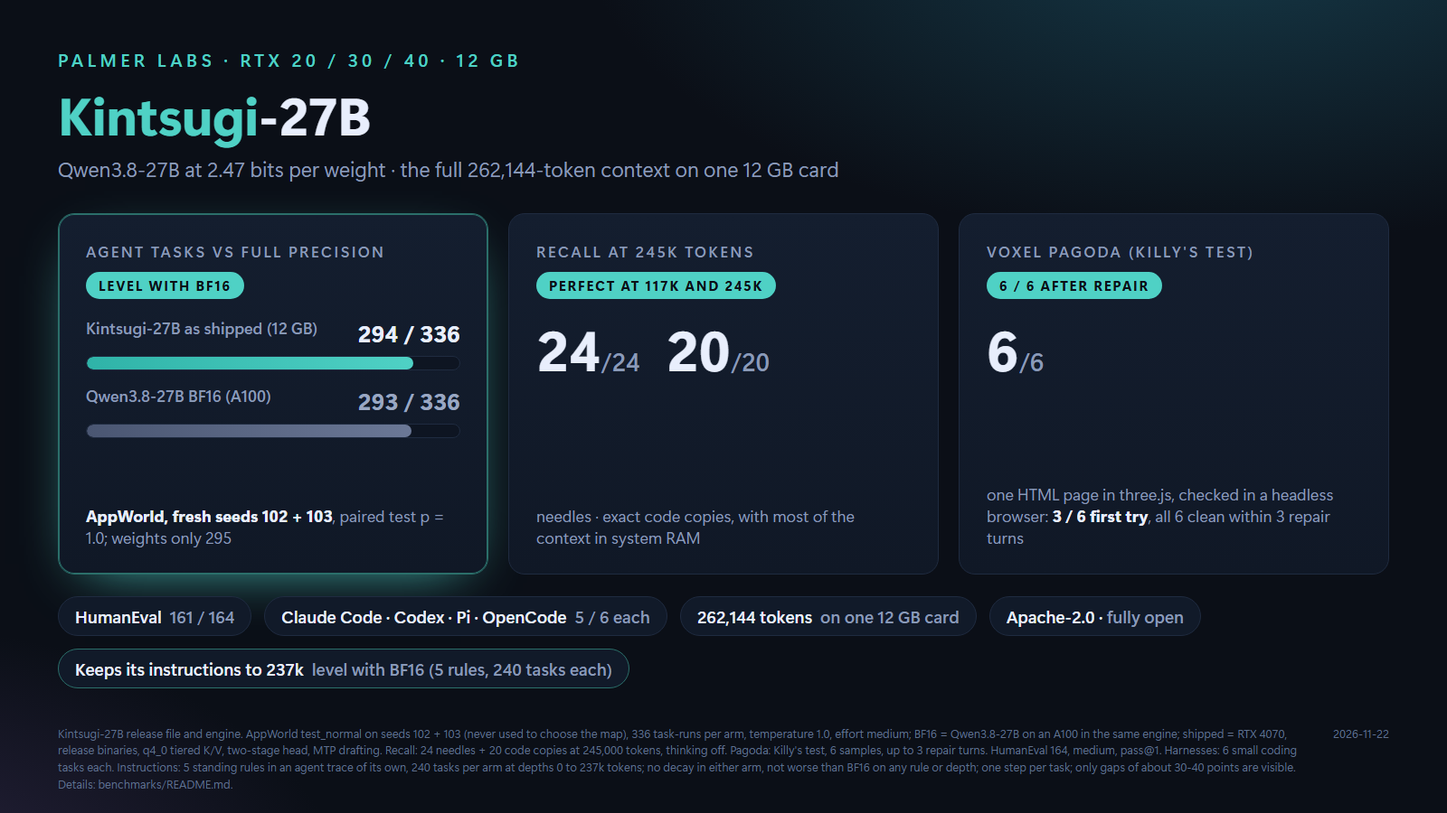
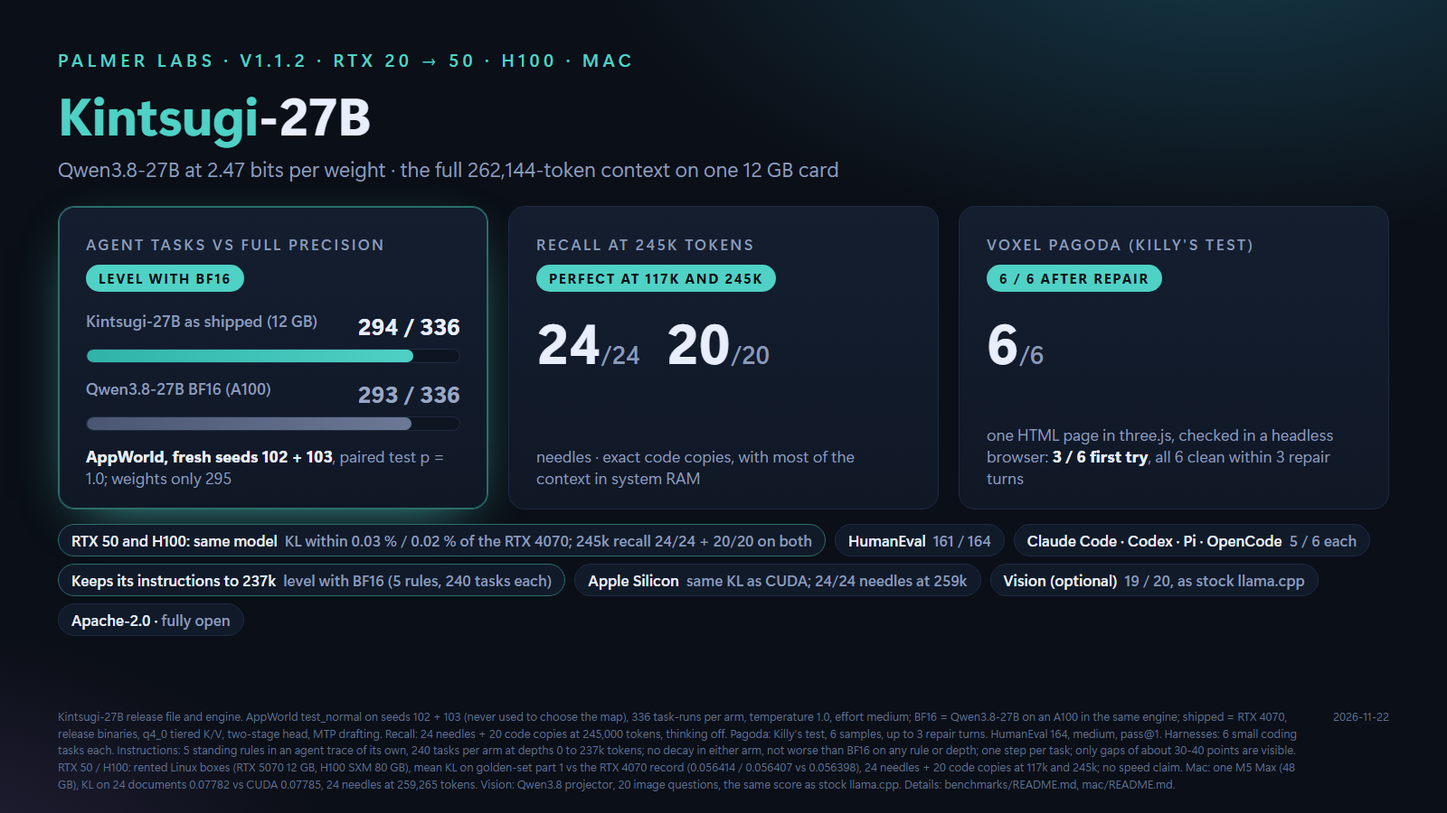
v1.1.2: RTX 50 (Blackwell) and H100 / H200 (Hopper) in one bundle, portable code for newer cards, launcher card check, optional images (vision projector), Linux web page, grammar fix from llama.cpp #32381; docs, changelog, cross-architecture results, highlights card

diff --git a/bundle/README.md b/bundle/README.md
@@ -1,4 +1,4 @@
-# Kintsugi-27B bundle: user guide (Windows, RTX 20 / 30 / 40, 12 GB)
+# Kintsugi-27B bundle: user guide (Windows, RTX 20 / 30 / 40 / 50 and H100, 12 GB)
 
 This folder holds the text files of the Windows zip. Download the zip from
 [Releases](https://github.com/professorpalmer/Kintsugi-27B/releases/latest). The zip also holds the engine (`bin\`),
@@ -11,12 +11,15 @@ end). Pull requests are welcome.
 
 ## What you need
 
-- An NVIDIA RTX 20, 30 or 40 series card with 12 GB of VRAM or more. Examples: RTX 2060 12 GB, 3060 12 GB, 3080 12 GB,
-  3080 Ti, 3090, 4060 Ti 16 GB, 4070 and up, 4090.
-  - RTX 50 series (Blackwell) and H100 (Hopper) are not in this build yet: coming soon.
+- An NVIDIA RTX 20, 30, 40 or 50 series card with 12 GB of VRAM or more, or an H100 / H200. Examples: RTX 2060 12 GB,
+  3060 12 GB, 3080 12 GB, 3080 Ti, 3090, 4060 Ti 16 GB, 4070 and up, 4090, 5060 Ti 16 GB, 5070 and up, 5090.
+  - The bundle carries code for all of them (RTX 50 and H100 from v1.1.2). CUDA loads only your card's code, so this
+    costs no VRAM or speed, only download size.
+  - Older cards (GTX 10 and before) and V100 / A100 have no code in the bundle: the launcher says so and stops.
   - Cards with less than 12 GB cannot hold the model.
   - On 16-24 GB cards, the launcher keeps the whole context in VRAM, so long-context speed is much higher.
-  - We checked Turing (RTX 20 class, on a card limited to 12 GB), Ampere and Ada: the results are the same within 1 %.
+  - We checked Turing (RTX 20 class, on a card limited to 12 GB), Ampere, Ada, Blackwell (RTX 5070) and Hopper (H100):
+    the results are the same within 1 % ([cross-architecture](../research/cross-architecture/README.md)).
 - NVIDIA driver 580 or newer (the bundle carries its own CUDA 13 runtime). The launcher stops with a message if the
   driver is too old.
 - Windows 10 or 11, 64-bit. 32 GB of system RAM or more is best for very long chats.
@@ -48,6 +51,29 @@ Without the file the launcher uses the model's own MTP drafter, as before, and p
 with either drafter. To choose by hand: `$env:KINTSUGI_DRAFT = 'mtp'` (or `dflash`, `off`).
 
 The drafter is Inco AI's DFlash2 in ggml-org's Q4_0 GGUF, unchanged (Apache-2.0; see NOTICE and CREDITS.md).
+
+## Images (optional download)
+
+Kintsugi-27B can read images with Qwen's vision projector. It is an optional download; the model file does not
+change. Download `mmproj-Qwen3.8-27B-Q8_0.gguf` (629,247,008 bytes, SHA-256
[1 lines of base64/hex data omitted]
+https://huggingface.co/ggml-org/Qwen3.8-27B-GGUF and put it in `models\`. The launcher then turns images on (the
+`vision` line). Two modes (`KINTSUGI_VISION`; the default `auto` picks by the card):
+
+- **cpu** (auto on cards under 16 GB): the projector runs on the processor. No VRAM cost: every K/V cell stays in
+  VRAM. An image takes 5-25 s to read (about 5 s for a small screenshot, 25 s for a 2,048-token photo).
+- **gpu** (auto on cards with 16 GB or more): about 1.3 GB of VRAM. An image takes 1-3 s. On a 12 GB card this
+  leaves about 61,000 K/V cells in VRAM instead of 144,000 (the window stays 262,144 tokens; long conversations
+  decode more slowly); a 16 GB card keeps the whole window in VRAM.
+- `KINTSUGI_VISION=off`: images off with the file present; `gpu` / `cpu` force a mode.
+- With images on, drafting is MTP + lookup: the DFlash2 drafter does not work with images yet (the launcher
+  switches to MTP; `KINTSUGI_DRAFT=dflash` with images on stops with a message).
+- Saved conversations: a request with an image is not saved; with images on, saves are full saves (no small delta
+  saves).
+- `KINTSUGI_IMAGE_MAX_TOKENS` (default 2048): a larger image is scaled down to this many tokens.
+
+Images work in chat requests (OpenAI and Anthropic formats) and in tool results (for example a screenshot). The
+built-in web page is not tested with images.
 
 ## How to chat
 
@@ -116,7 +142,11 @@ How the answers felt (long-document answers, chat after a restart, code, tools):
 - Very long reasoning answers can be less faithful than short ones. If an answer goes off track, ask again or ask for a
   shorter answer.
 - One chat at a time (one slot). By default, the server listens on 127.0.0.1 only.
-- RTX 50 series (Blackwell) and H100 (Hopper) are not built in this release yet: coming soon.
+- RTX 50 and H100 were tested on rented Linux machines; the Windows build of that code (CUDA 13.4) passed the same
+  fidelity check on the RTX 5070 under Linux. We have not run it on an RTX 50 under Windows ourselves.
+- Newer cards (for example B200, or compute capability 12.1) run the engine's portable code: the driver compiles it at
+  the first start (about 1.5 minutes in our test on an RTX 5070 run on that code; later starts about 10 s, from the driver's cache). We have not tested these cards.
+  On Windows this needs a driver that supports CUDA 13.4.
 - On RTX 20 (Turing) cards, drafting (MTP or DFlash2) is not bit-identical to one-token decoding: near ties can round
   the other way in the verify path. The fidelity is the same (our Turing KL check). On RTX 30 / 40 it is bit-identical.
 

diff --git a/research/cross-architecture/README.md b/research/cross-architecture/README.md
@@ -1,6 +1,6 @@
-# Cross-architecture checks: Turing and Ampere against the Ada rig
+# Cross-architecture checks: Turing, Ampere, Blackwell and Hopper against the Ada rig
 
-**Status:** finished (2026-11-20). **Finding:** on Turing (sm_75) and Ampere (sm_86) the engine computes the same
+**Status:** finished (2026-11-20; Blackwell and Hopper added 2026-11-22). **Finding:** on Turing (sm_75) and Ampere (sm_86) the engine computes the same
 model as on our Ada rig: mean KL within +0.02 % and +0.92 %, and full retrieval at 117k. The output is not
 token-identical, and that is rounding, not wrong math.
 
@@ -92,4 +92,50 @@ within 1 %. So KL is the test that decides across architectures; identity stays 
   the same.
 - We found no rentable RTX 2060 12 GB box with enough system RAM; the Turing result comes from a Quadro RTX 6000 held
   to 12 GB.
-- No RTX 50 (Blackwell) build in this study. Blackwell and Hopper support is coming soon, with its own checks.
+- No RTX 50 (Blackwell) build in v1 to v1.1.1; see the next section for v1.1.2.
+
+## v1.1.2: Blackwell (RTX 50) and Hopper (H100), 2026-11-22
+
+**Finding:** the v1.1.2 engine computes the same model on an RTX 5070 (sm_120) and an H100 (sm_90) as on our RTX 4070:
+mean KL within +0.03 % and +0.02 %, and full retrieval at 117k and 245k.
+
+v1.1.2 adds native code for sm_90 and sm_120 (ggml's build turns `120` into the arch-specific `120a`) and portable
+`compute_90` PTX for newer cards. We rented one box for each, with the v1.1.2 Linux release engine built on the RTX 50
+box (CUDA 12.8, the same binaries on both boxes), the release model file from Hugging Face (sha256 checked) and the
+bundle launcher. Lines were written before the runs; they are the lines of the checks above.
+
+| Check | Line | Blackwell: RTX 5070 12 GB | Hopper: H100 SXM 80 GB |
+|---|---|---|---|
+| Mean KL, box against rig (0.056398) | +/-2 % | 0.056414: **+0.03 %** | 0.056407: **+0.02 %** |
+| Top-1 agreement (90.934 %) | 0.3 points | 90.928 %: -0.006 points | 90.921 %: -0.013 points |
+| Retrieval at 117k | 24/24 + 20/20 | 24/24 + 20/20 | 24/24 + 20/20 |
+| Retrieval at 245k | 24/24 + 20/20 | 24/24 + 20/20 | 24/24 + 20/20 |
+| Tool calls t1-t4 | pass | pass | pass |
+| Spill / out-of-memory / CUDA errors | 0 | 0 / 0 / 0 | 0 / 0 / 0 |
+| K/V cells in VRAM (262,144 window) | record | 129,536 (the driver keeps 453 MiB) | 262,144 (all) |
+| Same tokens with PDL on and off | 50/50 | 50/50 | 50/50 |
+| Identity against the rig | info | 22/50 | 20/50 |
+| **Verdict** | | **pass** | **pass** |
+
+- **PDL.** Code built for sm_90 and newer launches kernels with programmatic dependent launch (a kernel may start
+  before the previous one ends and waits inside for its inputs). Our build had never used it. We checked that every
+  such kernel our fork changes waits before it reads, and on both boxes the output is the same with PDL off
+  (`GGML_CUDA_PDL=0`). PDL is also faster: the identity set decodes at 103 vs 76 tok/s (RTX 5070) and 128 vs 87 tok/s
+  (H100) with PDL on vs off.
+- **Portable code (PTX).** With `CUDA_FORCE_PTX_JIT=1` the RTX 5070 runs the `compute_90` PTX instead of its own code,
+  as a B200 or a compute capability 12.1 card would. KL on a quarter of the set: 0.063993 vs 0.064009 with its own
+  code (-0.03 %), top-1 89.643 vs 89.632 %. The engine then chooses its kernels for 9.0, the arch of the code it runs
+  (one INFO line); before v1.1.2 the host side would have chosen for 12.0 while the device ran 9.0 code. On the H100,
+  forced JIT also forces cuBLAS to compile from PTX, which its CUDA 12.8 build cannot do for sm_90, so that run stops
+  at cuBLAS start; it says nothing about our code. With an engine built with the PTX only (no native code at all), the RTX 5070 compiles our code at the first
+  start (89 s to the first answer, 8 s with native code), and later starts take 10 s: the driver keeps the compiled code
+  in its cache (90 MiB). The output is the same in both starts (50/50), and decode speed matches the native code.
+- **The Windows build.** The Windows bundle's code comes from CUDA 13.4, the probed Linux build from 12.8. We built the
+  sm_120 code with the exact Windows compiler (CUDA 13.4.92) on the RTX 5070 box: KL on the quarter set 0.064003 vs
+  0.064009 (-0.01 %), top-1 89.643 vs 89.632 %.
+- **Hopper prompt reads** use the recurrent GDN kernel: the chunked GDN prefill (from llama.cpp #29353) is enabled only
+  on the architectures it was tuned for (RTX 30 / 40 / 50 and GB10). The result is the same model; reads are slower
+  than they could be.
+- No speed claims from rented boxes. For the record (one run, launcher defaults, MTP): RTX 5070 decode 78 tok/s at 4k and 64 tok/s at 117k,
+  prompt read 1,673 / 1,020 tok/s;
+  H100 decode 91 tok/s at 4k and 79 tok/s at 117k, prompt read 3,162 / 2,246 tok/s.

diff --git a/bundle-linux/README.md b/bundle-linux/README.md
@@ -1,4 +1,4 @@
-# Kintsugi-27B v1.1.1 for Linux (x86_64, RTX 20 / 30 / 40, 12 GB)
+# Kintsugi-27B v1.1.2 for Linux (x86_64, RTX 20 / 30 / 40 / 50 and H100, 12 GB)
 
 These are the text files of the Linux tarball; download the tarball from
 [Releases](https://github.com/professorpalmer/Kintsugi-27B/releases/latest). The tarball also holds the engine
@@ -12,7 +12,9 @@ https://github.com/professorpalmer/Kintsugi-27B/issues.
 
 ## What you need
 
-- An NVIDIA RTX 20, 30 or 40 series card with 12 GB of VRAM or more. RTX 50 (Blackwell) and H100 (Hopper) are not built in this release yet: coming soon.
+- An NVIDIA RTX 20, 30, 40 or 50 series card with 12 GB of VRAM or more, or an H100 / H200. CUDA loads only your
+  card's code, so the code for the other cards costs no VRAM or speed. Older cards (GTX 10 and before) and V100 / A100
+  have no code in the bundle: the launcher says so and stops.
 - NVIDIA driver 570 or newer. The engine uses the CUDA 12.8 runtime (in `bin/`). On drivers older than the 580
   family, the engine uses another type of pinned system memory for the long context, and writes one WARN line about it.
 - Linux x86_64 with glibc 2.34 or newer and the libstdc++ of GCC 12 or newer (the engine needs GLIBC_2.34 and
@@ -24,10 +26,10 @@ https://github.com/professorpalmer/Kintsugi-27B/issues.
 
 ## Download and start
 
-1. Download `Kintsugi-27B-v1.1.1-linux-x86_64.tar.gz` from the Releases page and unpack it:
+1. Download `Kintsugi-27B-v1.1.2-linux-x86_64.tar.gz` from the Releases page and unpack it:
 
    ```
-   tar -xzf Kintsugi-27B-v1.1.1-linux-x86_64.tar.gz
+   tar -xzf Kintsugi-27B-v1.1.2-linux-x86_64.tar.gz
    cd Kintsugi-27B
    ```
 
@@ -57,6 +59,29 @@ with either drafter. To choose by hand: `KINTSUGI_DRAFT=mtp ./start-server.sh --
 
 The drafter is Inco AI's DFlash2 in ggml-org's Q4_0 GGUF, unchanged (Apache-2.0; see NOTICE and CREDITS.md).
 
+## Images (optional download)
+
+Kintsugi-27B can read images with Qwen's vision projector. It is an optional download; the model file does not
+change. Download `mmproj-Qwen3.8-27B-Q8_0.gguf` (629,247,008 bytes, SHA-256
[1 lines of base64/hex data omitted]
+https://huggingface.co/ggml-org/Qwen3.8-27B-GGUF and put it in `models/`. The launcher then turns images on (the
+`vision` line). Two modes (`KINTSUGI_VISION`; the default `auto` picks by the card):
+
+- **cpu** (auto on cards under 16 GB): the projector runs on the processor. No VRAM cost: every K/V cell stays in
+  VRAM. An image takes 5-25 s to read (about 5 s for a small screenshot, 25 s for a 2,048-token photo).
+- **gpu** (auto on cards with 16 GB or more): about 1.3 GB of VRAM. An image takes 1-3 s. On a 12 GB card this
+  leaves about 61,000 K/V cells in VRAM instead of 144,000 (the window stays 262,144 tokens; long conversations
+  decode more slowly); a 16 GB card keeps the whole window in VRAM.
+- `KINTSUGI_VISION=off`: images off with the file present; `gpu` / `cpu` force a mode.
+- With images on, drafting is MTP + lookup: the DFlash2 drafter does not work with images yet (the launcher
+  switches to MTP; `KINTSUGI_DRAFT=dflash` with images on stops with a message).
+- Saved conversations: a request with an image is not saved; with images on, saves are full saves (no small delta
+  saves).
+- `KINTSUGI_IMAGE_MAX_TOKENS` (default 2048): a larger image is scaled down to this many tokens.
+
+Images work in chat requests (OpenAI and Anthropic formats) and in tool results (for example a screenshot). The
+built-in web page is not tested with images.
+
 ## How to chat
 
 - **In the browser:** open http://127.0.0.1:8080/.
@@ -79,6 +104,10 @@ then also set `KINTSUGI_KEY_FILE` to a file holding an API key. Logs are in `log
 
 ## Known limits
 
+- RTX 50 and H100 were tested on rented machines (RTX 5070 12 GB; H100 80 GB): the same model fidelity (KL) as our
+  RTX 4070, full recall at 117k and 245k tokens. Since v1.1.2 the browser chat page also works on Linux.
+- Newer cards (for example B200, or compute capability 12.1) run the engine's portable code: the driver compiles it at
+  the first start (about 1.5 minutes in our test on an RTX 5070 run on that code; later starts about 10 s, from the driver's cache). We have not tested these cards.
 - Decode at a very long context is slower: about 31 tok/s at 245k tokens on an RTX 4070. Short chats are much faster.
 - The first read of a very long prompt takes about 7 minutes for 245k tokens on an RTX 4070; later turns read only the
   new text.

diff --git a/engine/README.md b/engine/README.md
@@ -22,9 +22,15 @@ The source of each release build is a release asset. Licence: MIT, the same as l
 
 | Engine | Bundles | Source asset | sha256 |
 |---|---|---|---|
[4 lines of base64/hex data omitted]
+
+`b9c5b427d` = `5f393adb5` + two changes: the grammar guard of llama.cpp #32381 (Aldehir Rojas: an anchored tool-call
+trigger pattern must not fall back to a search; Kintsugi's own trigger is a fixed tag, so its tool calls do not
+change), and a check at start for cards that run the portable code (below). The source asset also holds the built web
+chat page (`tools/ui/dist`), so the build needs no npm and no download.
 
 `5f393adb5` = `af70fc544` + one fix: the spill check at load writes its warning only when the GPU memory is at its
 limit (before, pinned system memory of the tiered cache could give a false "spill at load").
@@ -35,16 +41,23 @@ The release build leaves out the Mirai S kernels that are also in this source (`
 refuses Mirai S files with a clear message). Release flags:
 
 ```
-cmake -S . -B build -G Ninja -DCMAKE_BUILD_TYPE=Release -DGGML_CUDA=ON -DCMAKE_CUDA_ARCHITECTURES="75-real;86-real;89-real" -DGGML_CUDA_MIRAI=OFF -DLLAMA_BUILD_UI=OFF -DGGML_CUDA_GRAPHS=ON -DLLAMA_BUILD_SERVER=ON -DLLAMA_BUILD_TESTS=ON -DLLAMA_BUILD_EXAMPLES=OFF -DLLAMA_CURL=OFF -DGGML_RPC=OFF -DGGML_BLAS=OFF -DGGML_NATIVE=OFF -DGGML_CCACHE=OFF
+cmake -S . -B build -G Ninja -DCMAKE_BUILD_TYPE=Release -DGGML_CUDA=ON -DCMAKE_CUDA_ARCHITECTURES="75-real;86-real;89-real;90;120-real" -DGGML_CUDA_MIRAI=OFF -DLLAMA_BUILD_UI=OFF -DGGML_CUDA_GRAPHS=ON -DLLAMA_BUILD_SERVER=ON -DLLAMA_BUILD_TESTS=ON -DLLAMA_BUILD_EXAMPLES=OFF -DLLAMA_CURL=OFF -DGGML_RPC=OFF -DGGML_BLAS=OFF -DGGML_NATIVE=OFF -DGGML_CCACHE=OFF
 cmake --build build --target llama-server llama-perplexity test-backend-ops
 ```
 
 - **Linux:** also give `-DLLAMA_USE_PREBUILT_UI=OFF`. Without it, the `llama-ui-assets` step tries to download the
   prebuilt web UI and the build stops there. Also give `-DGGML_CUDA_NCCL=OFF` (from v1.1.1): with NCCL on, the engine
   needs `libnccl.so.2` at run time, which a machine with only the NVIDIA driver does not have.
-- **One GPU family only:** set `CMAKE_CUDA_ARCHITECTURES` to it, for example `75-real` (RTX 20), `86-real` (RTX 30)
-  or `89-real` (RTX 40).
-- **CUDA toolkit:** 12.2 or newer. The Windows bundle uses CUDA 13.
+- **Architectures (v1.1.2):** native code for `75` (RTX 20), `86` (RTX 30), `89` (RTX 40), `90` (H100 / H200) and `120`
+  (RTX 50; ggml's CMake turns `120` into `120a`, which runs on compute capability 12.0 only), plus PTX for `compute_90`
+  (the `90` entry without a suffix gives both). A card with no native code (for example B200, or 12.1) runs that PTX:
+  the driver compiles it at the first start and keeps it in its cache (`CUDA_CACHE_MAXSIZE`; the launchers set 4 GiB
+  for such cards). The engine then picks its kernels for compute capability 9.0, the arch of the code it runs, and
+  writes one INFO line. The PTX is `compute_90`, not `compute_120`, because a `120-virtual` entry would also become
+  arch-specific. CUDA loads only the code of your card: the other architectures cost no VRAM or speed, only file size.
+- **One GPU family only:** set `CMAKE_CUDA_ARCHITECTURES` to it, for example `75-real` (RTX 20), `86-real` (RTX 30),
+  `89-real` (RTX 40), `90-real` (H100) or `120-real` (RTX 50).
+- **CUDA toolkit:** 12.2 or newer; 12.8 or newer for RTX 50. The Windows bundle uses CUDA 13, the Linux bundle 12.8.
 
 ## NVIDIA driver
 

diff --git a/bundle/CHANGELOG.md b/bundle/CHANGELOG.md
@@ -5,6 +5,35 @@ the same for every version below: when a new bundle comes out, download only the
 [Releases page](https://github.com/professorpalmer/Kintsugi-27B/releases) also has the engine source
[1 lines of base64/hex data omitted]
 
+## v1.1.2 (2026-11-22)
+
+- **Optional images.** Download Qwen's vision projector (`mmproj-Qwen3.8-27B-Q8_0.gguf`, 629 MB, from ggml-org's
+  Qwen3.8-27B-GGUF page) into `models`, and the launcher turns images on: in chat requests (OpenAI and Anthropic
+  formats) and in tool results. On a card under 16 GB the projector runs on the CPU (no VRAM cost, 5-25 s per image);
+  from 16 GB on the GPU (1-3 s). `KINTSUGI_VISION=auto|cpu|gpu|off`. With images on, drafting is MTP + lookup (the
+  DFlash2 drafter does not work with images yet). Our checks: 19/20 on our image set (the same as stock llama.cpp with
+  the same files), images after a 117k-token conversation 4/4, the same text output with the projector loaded (50 / 50
+  prompts), Claude Code 5/6 plus an image task. The built-in web page is not tested with images.
+- **RTX 50 (Blackwell) and H100 / H200 (Hopper).** The engine now has native code for RTX 50 (sm_120) and Hopper
+  (sm_90), as well as RTX 20 / 30 / 40, and portable code (compute_90 PTX) for newer cards. Tested on rented Linux machines
+  (RTX 5070 12 GB, H100 80 GB): the same model fidelity as our RTX 4070 (mean KL on the quant-challenge golden set
+  0.056414 and 0.056407 vs 0.056398; top-1 within 0.02 points), 24 / 24 needles and 20 / 20 exact code copies at 117k
+  and 245k tokens, tool calls t1-t4, and no memory spill. CUDA loads only your card's code, so the other cards' code
+  costs no VRAM or speed, only download size (Windows zip 679 MB, was 581 MB; Linux tarball 786 MB, was 684 MB).
+- **Newer cards** (for example B200, or compute capability 12.1) run the portable code. The driver compiles it at the
+  first start and keeps it in its cache: in our test (an RTX 5070 run on that code) the first start took about 1.5
+  minutes and later starts about 10 s. The launcher sets a 4 GiB cache for these cards. On Windows this needs a driver
+  that supports CUDA 13.4. Not tested by us on such cards.
+- **The launcher checks the card** (compute capability) and stops with a clear message on a card the bundle has no code
+  for (GTX 10 and older, V100, A100). On a card with less than 12 GB it prints a clearer warning.
+- **Linux: the web chat page works** (http://127.0.0.1:8080/); v1.0.4-v1.1.1 Linux engines were built without it.
+- A grammar fix from llama.cpp (#32381, Aldehir Rojas): an anchored tool-call trigger pattern no longer falls back to
+  a search. Kintsugi's own tool calls use a fixed tag, so they do not change.
+- RTX 20 / 30 / 40: no change in output. On our RTX 4070 the v1.1.2 engine gives the same tokens as v1.1 (50 / 50
+  prompts) at the same speed.
[2 lines of base64/hex data omitted]
+
 ## v1.1.1 (2026-11-21, Linux only)
 
 - **Linux: the engine no longer needs NCCL (libnccl.so.2).** The v1.0.4 and v1.1 Linux engines did not start on a

diff --git a/README.md b/README.md
@@ -18,11 +18,16 @@ and the **EXL3 trellis codec** by turboderp (exllamav3, after QTIP). Full list: 
 - **Gated on tasks, not only on KL**: every candidate bit map had to pass long-context recall, long-answer and agent
   tests. Our maps with lower KL failed them and did not ship ([the study](research/bit-allocation/README.md)).
 - **Works with coding harnesses**: Claude Code, Codex, Pi and OpenCode.
+- **Optional images (v1.1.2)**: with Qwen's vision projector (a separate download), it reads images in chat and in
+  tool results (screenshots); on a 12 GB card the projector runs on the CPU and costs no VRAM
+  ([bundle/README.md](bundle/README.md#images-optional-download)).
 - **Rules hold deep into agent sessions**: after up to 237k tokens of its own agent trace, Kintsugi-27B kept all five
   standing system-prompt rules with no decay, and was not worse than Qwen3.8-27B BF16 on any rule or depth
   ([research/persistence-at-depth](research/persistence-at-depth/README.md); the test sees only large gaps).
-- **Runs on RTX 20, 30 and 40 cards** with 12 GB or more, and **on Apple Silicon Macs** ([mac/](mac/README.md): chat
-  and an OpenAI-compatible server; tested on an M5 Max). **Coming soon:** RTX 50 (Blackwell) and H100 (Hopper). AMD (ROCm / HIP) support is in progress. Intel GPUs are not supported yet. Stock
+- **Runs on RTX 20, 30, 40 and 50 cards and on H100 / H200** with 12 GB or more (RTX 50 and H100 from v1.1.2: one
+  download for all of them; CUDA loads only your card's code, so the others cost no VRAM or speed), and **on Apple
+  Silicon Macs** ([mac/](mac/README.md): chat and an OpenAI-compatible server; tested on an M5 Max). AMD (ROCm / HIP)
+  support is in progress. Intel GPUs are not supported yet. Stock
   llama.cpp, Ollama and LM Studio cannot load this file.
 - **Fully open**: Apache-2.0 for the model and our files, MIT for the engine. The engine source is in every release.
   The NVIDIA CUDA DLLs in the zip are NVIDIA's (see [NOTICE](NOTICE)).
@@ -50,7 +55,7 @@ and the **EXL3 trellis codec** by turboderp (exllamav3, after QTIP). Full list: 
 
 You need an NVIDIA driver 580 or newer. The full guide is in [bundle/README.md](bundle/README.md).
 
-**Linux (x86_64):** download `Kintsugi-27B-v1.1.1-linux-x86_64.tar.gz` from the same Releases page, then
+**Linux (x86_64):** download `Kintsugi-27B-v1.1.2-linux-x86_64.tar.gz` from the same Releases page, then
 `tar -xzf` it, put the model in `models/`, and run `./start-server.sh --wait`. It needs NVIDIA driver 570 or newer and
 glibc 2.34+ (Ubuntu 22.04 and 24.04); no other libraries. Full guide: [bundle-linux/README.md](bundle-linux/README.md).
 

diff --git a/research/README.md b/research/README.md
@@ -10,7 +10,7 @@ pass line before the run that it judges.
 | [harness-gate/](harness-gate/README.md) | finished, fixes shipped in v1.0.1 and v1.0.2 | Claude Code and Codex failed every request on the model's own chat template; with a fixed template, all four harnesses pass 5 of 6 tasks with no malformed calls, leaks or loops. |
 | [old-driver/](old-driver/README.md) | finished, launcher checks shipped in v1.0.3, engine fix in the next release | Drivers of the 570 family refuse the pinned memory type of the tiered K/V cache; a HOST_NUMA fallback loads and passes on two 570 boxes, and the launcher now stops a silent CPU fallback on Windows. |
 | [long-context-decode/](long-context-decode/README.md) | finished | Past about 144k tokens, the PCIe stream of the cold K/V cells sets the decode speed; a sparse V read, two copy-pipeline designs, a 3-bit K cache and a 2-bit head stage did not pass their gates, and an fp32 attention sum fixed a real kernel error but did not change recall or the true-token NLL. |
-| [cross-architecture/](cross-architecture/README.md) | finished | On Turing and Ampere the engine computes the same model as on Ada (KL +0.02 % and +0.92 %, retrieval 24/24 + 20/20 at 117k); identity differs by rounding only. |
+| [cross-architecture/](cross-architecture/README.md) | finished | On Turing, Ampere, Blackwell (RTX 5070) and Hopper (H100) the engine computes the same model as on Ada (KL within +0.92 %; retrieval 24/24 + 20/20 at 117k, and at 245k on Blackwell and Hopper); identity differs by rounding only. |
 | [clean-rebuild/](clean-rebuild/README.md) | finished, shipped in v1 | The release file is built from our fits and Qwen's BF16 release only (+0.0 % KL against the old build), and a per-32 Q8_0 head gives -0.1 % KL for free. |
 | [persistence-at-depth/](persistence-at-depth/README.md) | finished | After up to 237k tokens of its own agent trace, the model kept all five standing rules with no decay, and the 2.47-bit model was not worse than BF16 on any rule (only gaps of 30-40 points can show with 12-24 responses per cell). |
 

diff --git a/CREDITS.md b/CREDITS.md
@@ -47,6 +47,8 @@ Kintsugi-27B stands on a lot of other people's work. If we missed you, tell us a
 - **Mark Schatza**: native PQ2_0 unpacking in the HIP MMQ loader.
 - **Jason Titus**: Metal PTQ1_0 mat-vec for two to four columns.
 - **Tomer Weller**: Metal language 4.0 when the tensor API is there.
+- **Aldehir Rojas**: the guard for anchored tool-call trigger patterns in the grammar (llama.cpp #32381), ported
+  in v1.1.2.
 
 ## Drafting
 
@@ -55,6 +57,8 @@ Kintsugi-27B stands on a lot of other people's work. If we missed you, tell us a
 - **Inco AI**: the DFlash2 drafter for Qwen3.8-27B (Apache-2.0).
 - **ggml-org**: the Q4_0 GGUF conversion of that drafter, which the launcher uses when you download it (optional,
   from the model page).
+- **ggml-org**: the Q8_0 GGUF of Qwen's vision projector (`mmproj-Qwen3.8-27B-Q8_0.gguf`), which the optional
+  image mode uses (a separate download from their page).
 - **Magnitude (magnitudedev)**: mixed K / V cache types on the tensor-core path. (Credited for the idea; that option is
   under test and not in this build.)
 
